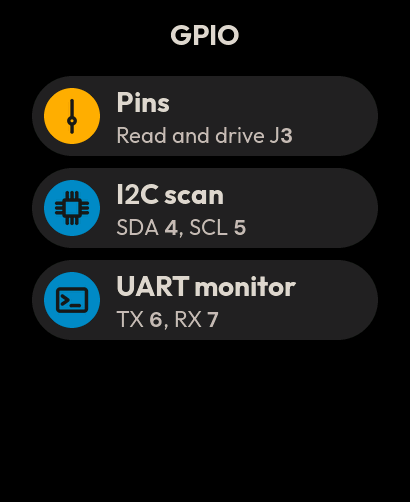
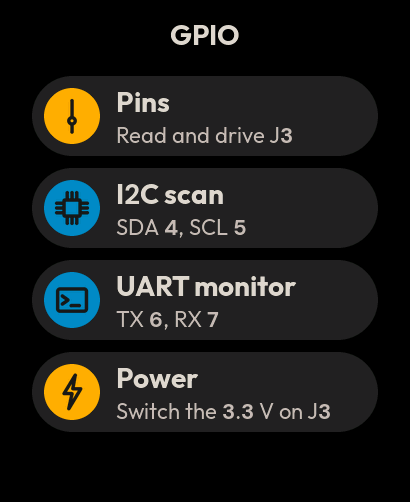
gpio_kit: a Power page for J3's 3.3 V (through the C5), parts-wired test, honest nothing-connected states, new screenshots

Changed region(s): [[0.0585, 0.6873, 0.9366, 0.8665]]

diff --git a/apps/gpio_kit/main/gpio_ao.c b/apps/gpio_kit/main/gpio_ao.c
@@ -97,6 +97,9 @@ typedef struct {
     char            rx[GP_UART_TEXT + 1U];       /**< What came in, printable. */
     uint32_t        rx_count;                    /**< Bytes received since the page opened. */
     uint32_t        tx_count;                    /**< Bytes sent. */
+    bool            v33;                         /**< J3's 3.3 V is on (as the app switched it). */
+    bool            v33_wait;                    /**< A switch of the 3.3 V is out; EXP_POWER_SIG ends it. */
+    char            perr[GP_ERR_MAX];            /**< Why the supply would not switch, empty when it did. */
 } GpioKitAo;
 
 static QEvtPtr     s_queue[KQP_AO_QUEUE_LEN];                          /**< Its event queue. */
@@ -120,6 +123,7 @@ static void page_pwm(kit_t *kit, void *arg);
 static void page_analog(kit_t *kit, void *arg);
 static void page_i2c(kit_t *kit, void *arg);
 static void page_uart(kit_t *kit, void *arg);
+static void page_power(kit_t *kit, void *arg);
 
 /* ---- Facts about the header ---- */
 
@@ -326,8 +330,16 @@ static void home_uart_cb(lv_event_t *e)
     kit_push(&me->kit, &page_uart, me);
 }
 
+/** @brief A tap on Power. @param e The event. */
+static void home_power_cb(lv_event_t *e)
+{
+    (void)e;
+    s_ao.perr[0] = '\0';
+    kit_push(&s_ao.kit, &page_power, &s_ao);
+}
+
 /**
- * @brief The first page: the pins, the I2C scan and the UART monitor.
+ * @brief The first page: the pins, the I2C scan, the UART monitor and the supply.
  * @param kit The kit.
  * @param arg The Active Object.
  */
@@ -343,6 +355,8 @@ static void page_home(kit_t *kit, void *arg)
     (void)kit_row(kit, body, "I2C scan", sub, &app_glyph_chip_40, NULL, KUI_COLOR_ACCENT, &home_i2c_cb, &s_ao);
     (void)snprintf(sub, sizeof(sub), "TX %u, RX %u", (unsigned)GP_UART_TX, (unsigned)GP_UART_RX);
     (void)kit_row(kit, body, "UART monitor", sub, &app_glyph_term_40, NULL, KUI_COLOR_ACCENT, &home_uart_cb, &s_ao);
+    (void)kit_row(kit, body, "Power", "Switch the 3.3 V on J3", &app_glyph_bolt_40, NULL, KUI_COLOR_ACTION, &home_power_cb,
+                  &s_ao);
 }
 
 /* ---- The pin map ---- */
@@ -781,6 +795,10 @@ static const char *i2c_guess(uint8_t addr)
     {
         s = "Small display";
     }
+    else if ( (addr >= 0x40U) && (addr <= 0x47U) )
+    {
+        s = "Sensor or driver";
+    }
     else if ( (addr >= 0x48U) && (addr <= 0x4FU) )
     {
         s = "Sensor or converter";
@@ -868,8 +886,8 @@ static void page_i2c(kit_t *kit, void *arg)
     {
         case GP_I2C_NONE:
         {
-            (void)snprintf(line, sizeof(line), "Nothing on SDA %u and SCL %u", (unsigned)GP_I2C_SDA,
-                           (unsigned)GP_I2C_SCL);
+            (void)snprintf(line, sizeof(line), "Nothing on SDA %u and SCL %u%s", (unsigned)GP_I2C_SDA,
+                           (unsigned)GP_I2C_SCL, me->v33 ? "" : ". 3.3 V is off");
             (void)kit_stage(kit, page, KUI_COLOR_TEXT_MUTED, &app_glyph_chip_96, "No devices found", line);
             foot_one(kit, page, "Scan again", KIT_BTN_ACTION, &i2c_again_cb);
             break;
@@ -1048,6 +1066,68 @@ static void page_uart(kit_t *kit, void *arg)
     lv_obj_set_pos(b, KBSP_LCD_H_RES - KIT_SIDE - GP_THIRD_W, GP_FOOT_Y);
     kit_bar(kit, page, "UART monitor");
     poll_set(me, true);
+}
+
+/* ---- Power ---- */
+
+/**
+ * @brief A tap on 3.3 V: ask AO_Radio to switch J3's supply. The app draws its own screen, so its Active Object holds the level the
+ *        standard layer's kode_pin_power_3v3() needs (KODE_PRIO_USER_GUI): the extended call kode_sys_exp_power() is the one open to
+ *        it, and the end of the switch comes as EXP_POWER_SIG.
+ * @param e The event.
+ */
+static void power_v33_cb(lv_event_t *e)
+{
+    GpioKitAo * const me = &s_ao;
+    kode_status_t     rc;
+
+    (void)e;
+    if ( me->v33_wait )
+    {
+        return;
+    }
+    me->perr[0] = '\0';
+    rc = kode_sys_exp_power(!me->v33);
+    if ( KODE_OK == rc )
+    {
+        me->v33_wait = true;
+    }
+    else
+    {
+        (void)snprintf(me->perr, sizeof(me->perr), "The radio would not take it (status %d)", (int)rc);
+    }
+    kit_refresh(&me->kit);
+}
+
+/**
+ * @brief J3's supply: a part wired to the connector gets nothing until the app switches 3.3 V on.
+ * @param kit The kit.
+ * @param arg The Active Object.
+ */
+static void page_power(kit_t *kit, void *arg)
+{
+    GpioKitAo * const me   = (GpioKitAo *)arg;
+    lv_obj_t * const  page = kit_page_bare(kit);
+
+    kit_no_swipe(kit);
+    if ( '\0' != me->perr[0] )
+    {
+        (void)kit_stage(kit, page, KUI_COLOR_DANGER, &app_glyph_bolt_96, "Cannot switch it", me->perr);
+    }
+    else if ( me->v33_wait )
+    {
+        (void)kit_stage(kit, page, KUI_COLOR_ACCENT, &app_glyph_bolt_96, "Switching", "Asking the radio");
+    }
+    else if ( me->v33 )
+    {
+        (void)kit_stage(kit, page, KUI_COLOR_OK, &app_glyph_bolt_96, "3.3 V is on", "Pins 2 and 19 of J3");
+    }
+    else
+    {
+        (void)kit_stage(kit, page, KUI_COLOR_TEXT_MUTED, &app_glyph_bolt_96, "3.3 V is off", "Pins 2 and 19 of J3");
+    }
+    foot_one(kit, page, me->v33 ? "Switch off" : "Switch on", me->v33 ? KIT_BTN_QUIET : KIT_BTN_ACTION, &power_v33_cb);
+    kit_bar(kit, page, "Power");
 }
 
 /* ---- The worker's answers ---- */
@@ -1306,6 +1386,7 @@ static QState GpioKitAo_initial(GpioKitAo * const me, void const * const par)
         KLOG_E(TAG, "the worker did not start (status %d)", (int)rc);
     }
     kit_start(&me->kit);
+    QActive_subscribe(&me->super, EXP_POWER_SIG);
     KLOG_I(TAG, "up");
     return Q_TRAN(&GpioKitAo_running);
 }
@@ -1338,6 +1419,24 @@ static QState GpioKitAo_running(GpioKitAo * const me, QEvt const * const e)
         case GPIOKIT_DONE_SIG:
         {
             job_done(me, Q_EVT_CAST(kode_worker_done_t));
+            break;
+        }
+        case EXP_POWER_SIG:
+        {
+            kode_sys_exp_power_done_t const * const d = Q_EVT_CAST(kode_sys_exp_power_done_t);
+
+            me->v33_wait = false;
+            if ( (uint8_t)KODE_OK == d->rc )
+            {
+                me->v33 = d->on;
+                KLOG_I(TAG, "J3 3.3 V %s", d->on ? "on" : "off");
+            }
+            else
+            {
+                (void)snprintf(me->perr, sizeof(me->perr), "The C5 would not switch it (status %u)", (unsigned)d->rc);
+                KLOG_W(TAG, "J3 3.3 V refused: %s", me->perr);
+            }
+            kit_refresh(&me->kit);
             break;
         }
         default:
